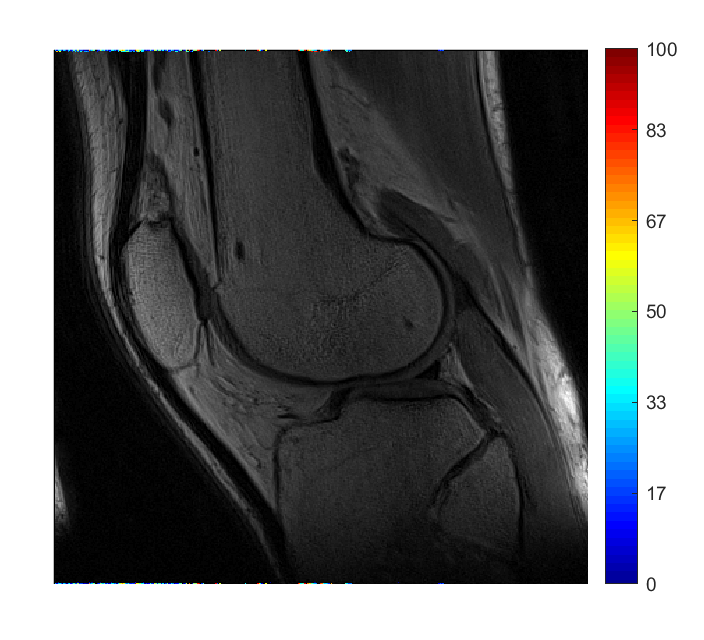
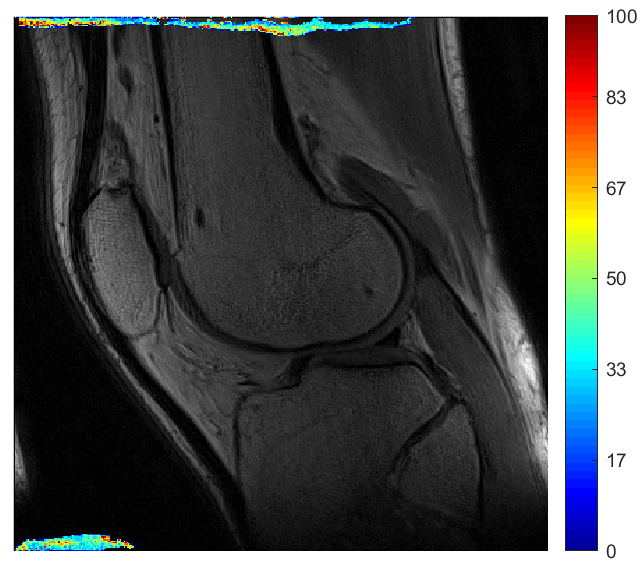
add some precisions about roipoly

diff --git a/documentation.md b/documentation.md
@@ -82,6 +82,8 @@ An another figure is created too : it is the streamlines of the femur and the ti
 <img src = "thickness_lines.png" style="width:367px;height:290px;" >
 </center>
 
+Some points are missing.
+
 ### What was wrong with it ?
  
 > *Before running this function, one needs to run 'main_flat.m' because it is here that 'results_flat.m' is created if already not created.*  
@@ -323,7 +325,7 @@ We can now go back to 'flat_converter.m'.
 
 <span style='color:mediumseagreen'>**15.**</span> In 'texture2_fast.m', the variable 'text_bF' is not known. The problem is that the *'for loop'* is not run. This is due to 'data_slice' that is null everywhere. It means that 'T2map(14).T2' is equal to zero.
 
-To resolve this, I traced the source of the problem : this led me to the 'inputs.m' function in 'runflat'.m, the ROI calculation gives something null so 'Timage' was null and so 'temp_map' was null too. I comment this line 92 :
+To resolve this, I traced the source of the problem : this led me to the 'inputs.m' function in 'runflat'.m, the ROI calculation gives something null so 'Timage' was null and so 'temp_map' was null too. I commented this line 92 :
 
 ```matlab
     [size_im] = size(Timage); % Gets the size of the image
@@ -332,7 +334,12 @@ To resolve this, I traced the source of the problem : this led me to the 'inputs
     % Timage    = ROI.*Timage;       % Let's restrict areas outside the ROI
 ```
 
-I can now run the 'flat_converter.m' function without any errors but I think that there is something to change for the ROI because I sort of avoided the problem but then the results are not exact I guess *(see the images at the beginning)*.
+I can now run the 'flat_converter.m' function without any errors but I think that there is something to change for the ROI because I sort of avoided the problem but then the results are not exact I guess *(see the images at the beginning)*.  
+There is an issue with the function 'roipoly'. It returns a black image instead of something usable. I didn't figure out yet how to fix this.
+
+**Update : ROI is finally not null due to one modification I made in 'coordinates.m'.**
+
+<span style='color:mediumseagreen'>**16.**</span> The image is not the good one.
 
 ## Third function : main_flat.m
 
